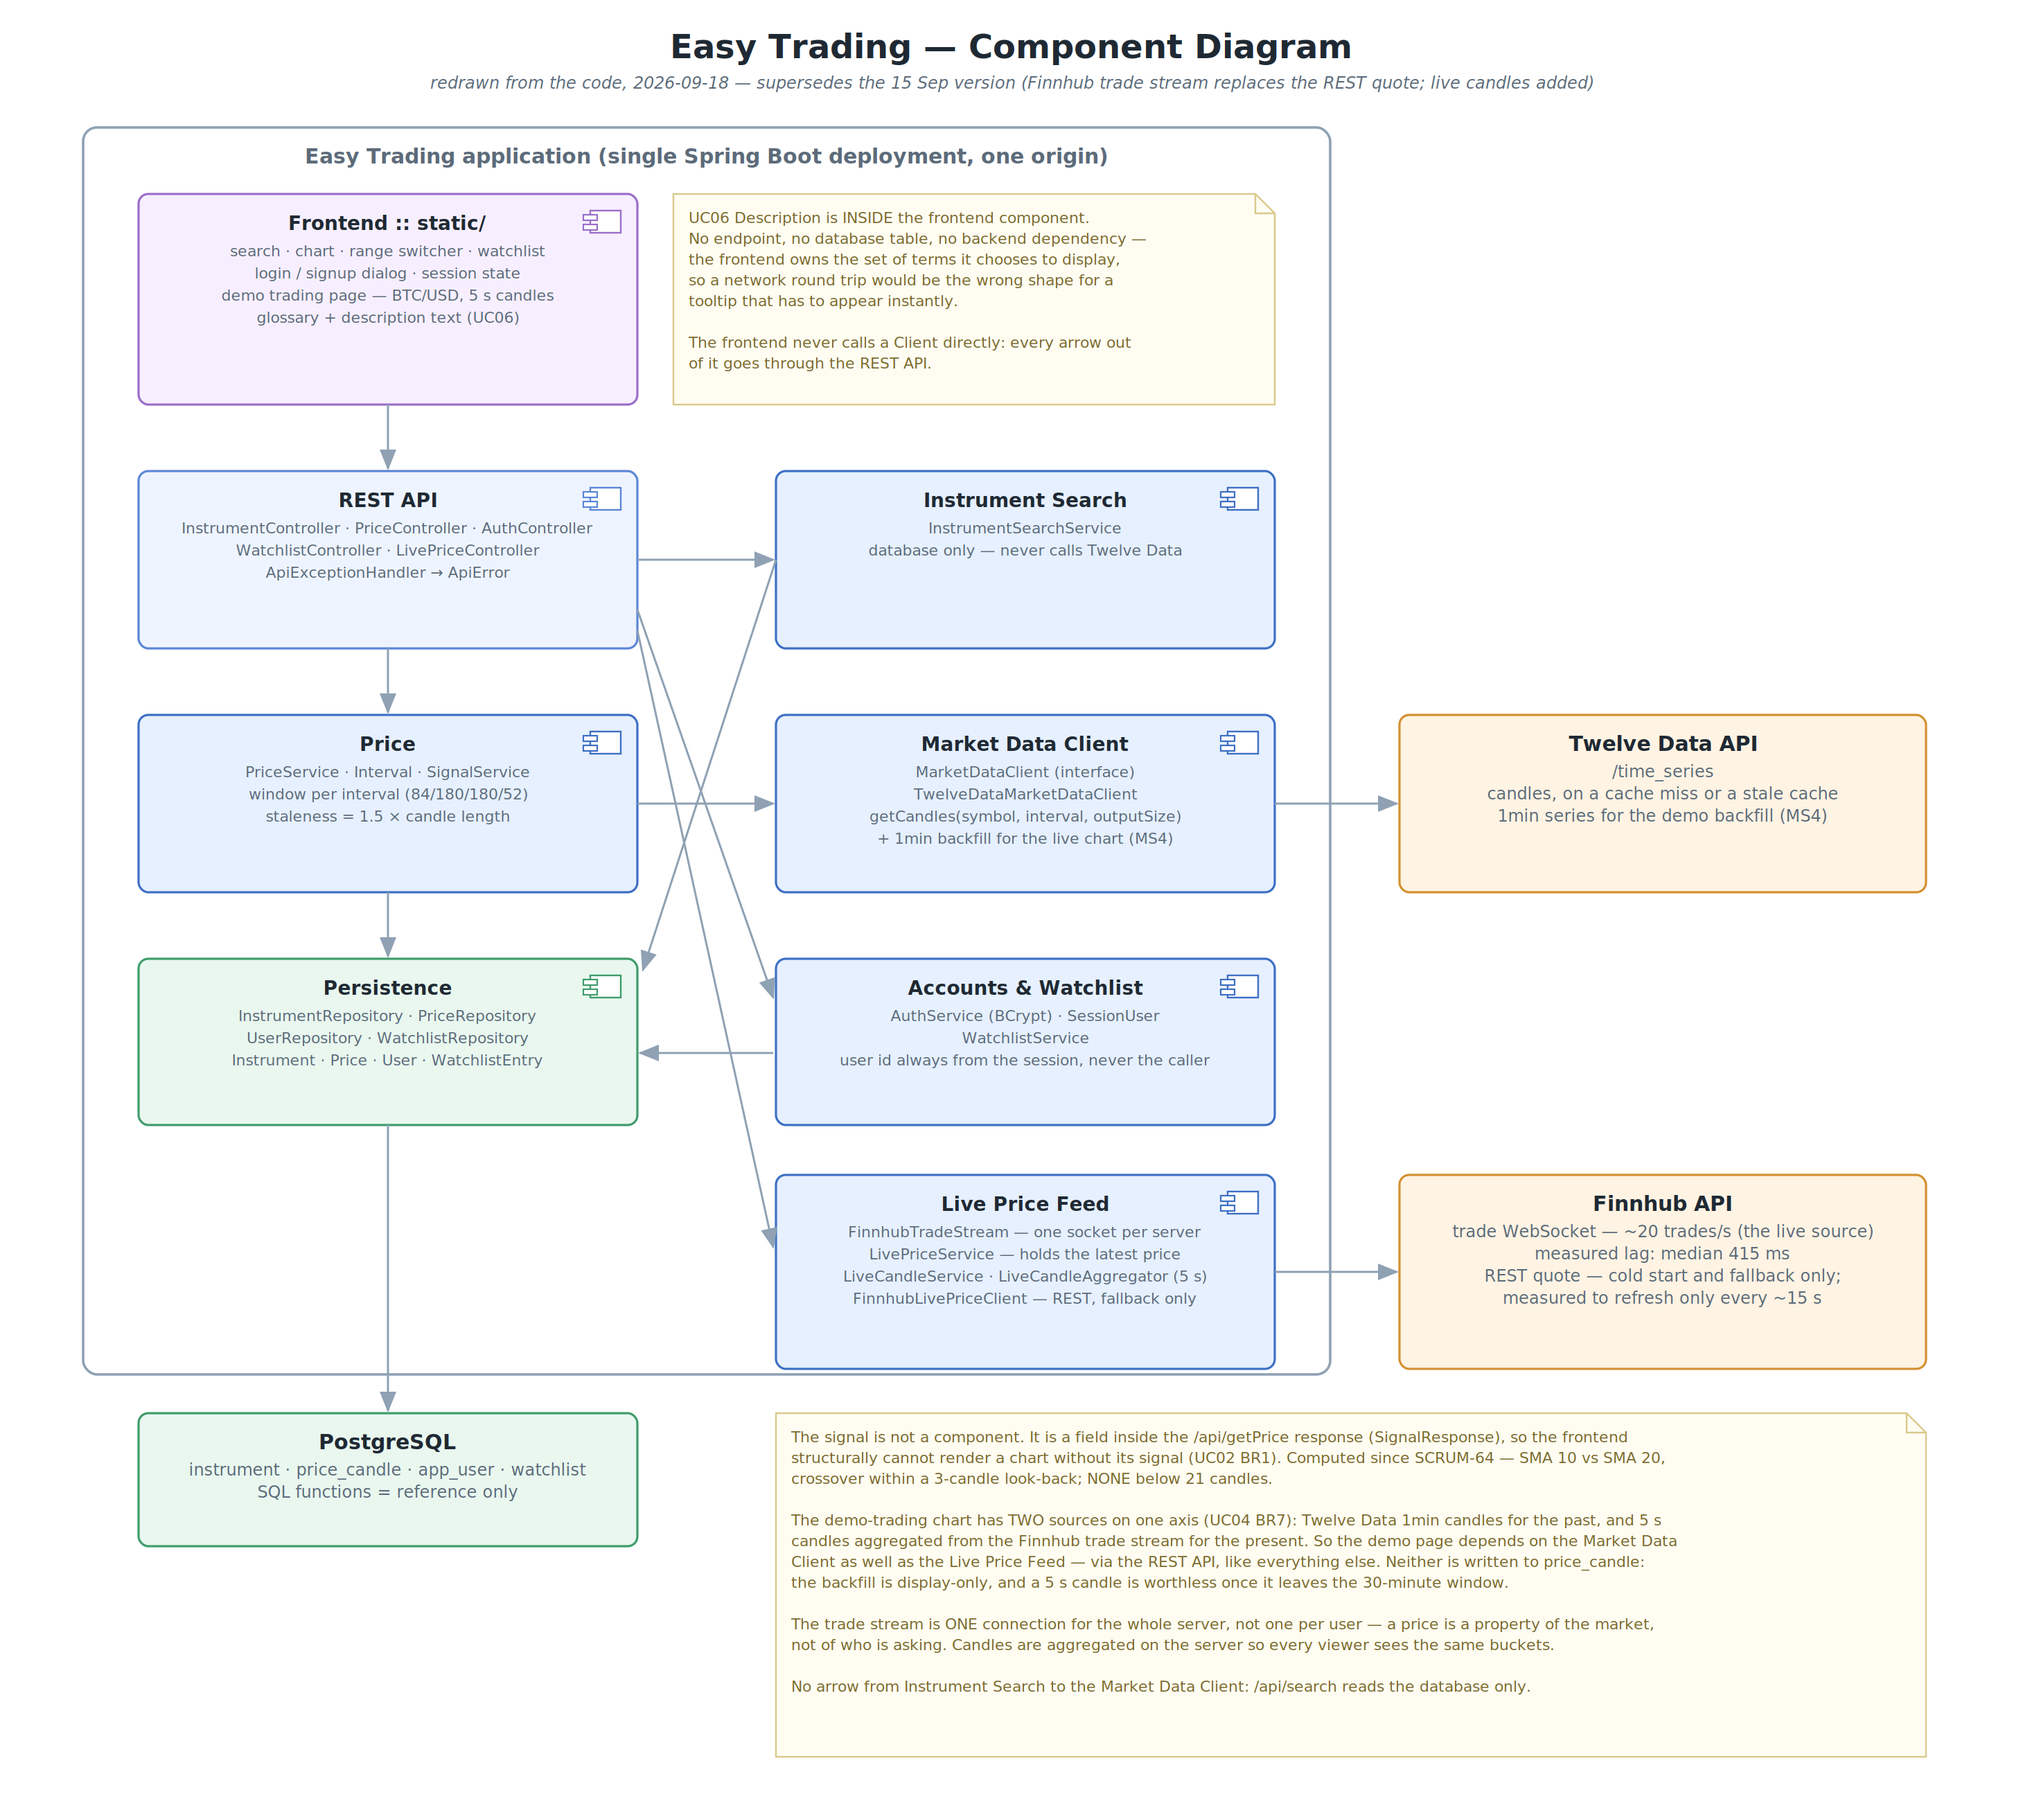
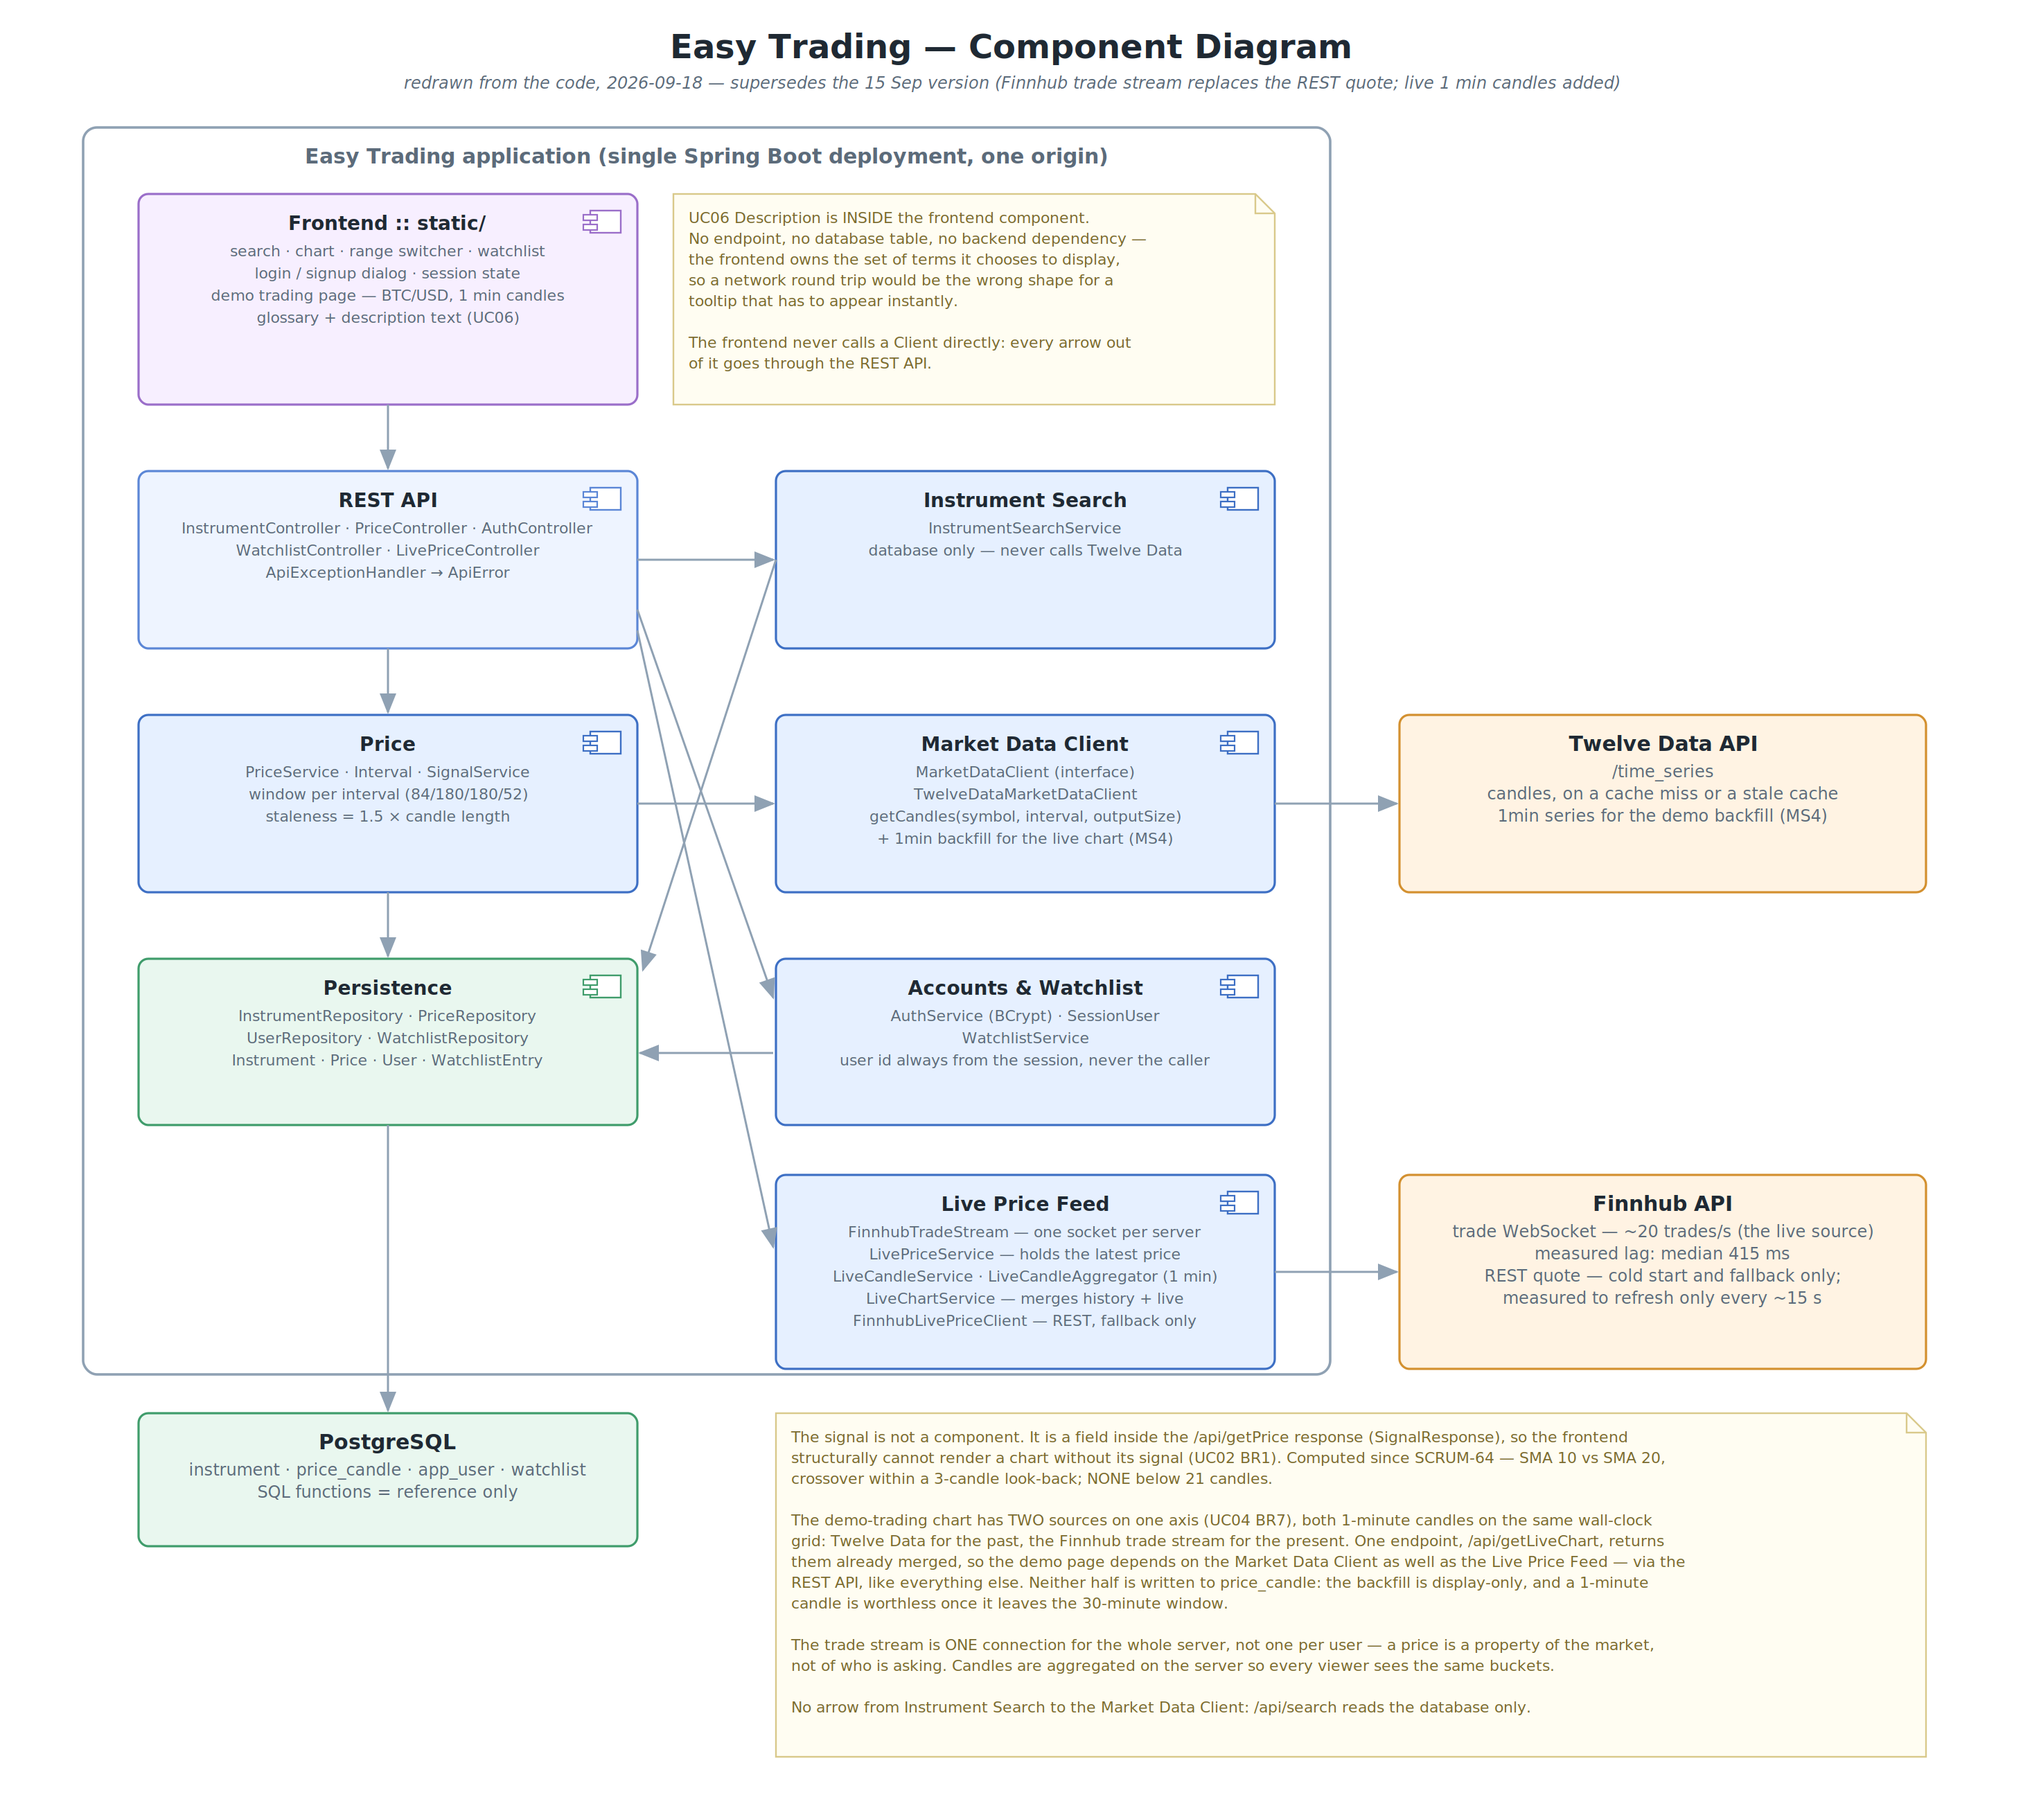
diagrams fixed

diff --git a/docs/diagrams/gen.py b/docs/diagrams/gen.py
@@ -1,5 +1,5 @@
 # -*- coding: utf-8 -*-
-"""Easy Trading — MS3/MS4 diagrams, redrawn from the code (2026-08-31)."""
+"""Easy Trading — MS3/MS4 diagrams, redrawn from the code (2026-08-31; last regenerated 2026-09-18 for SCRUM-76)."""
 import math, os
 
 OUT = os.path.dirname(os.path.abspath(__file__))
@@ -199,8 +199,10 @@ def layered():
          "Everything under /api/** is JSON. Never touches a Repository directly."),
         (500, 164, "Business logic layer  ·  *Service", LOGIC,
          ["InstrumentSearchService", "PriceService  ·  SignalService", "Interval (window + staleness)",
-          "AuthService  ·  SessionUser", "WatchlistService", "LivePriceService · LiveCandleService"],
-         "Owns the candle window, the staleness rule and the live 5 s candle series."),
+          "AuthService  ·  SessionUser", "WatchlistService",
+          "LivePriceService · LiveCandleService"],
+         "Owns the candle window, the staleness rule and the live 1 min candle series "
+         "(LiveChartService joins it to the Twelve Data backfill)."),
         (700, 164, "Persistence layer  ·  *Repository", PERSIST,
          ["InstrumentRepository", "PriceRepository", "UserRepository",
           "WatchlistRepository", "Instrument · Price entities", "User · WatchlistEntry entities"],
@@ -244,9 +246,9 @@ def layered():
 
     o.append(note(90, 1036, 800, 82, [
         "Layer rule, enforced by naming rather than by folder structure: a Controller always goes through a Service, never",
-        "straight to a Repository or a Client. Packages are organised by feature (instrument/, price/, marketdata/, liveprice/),",
-        "so one use case lives in one folder — the layer a class belongs to is carried by its *Controller / *Service /",
-        "*Repository / *Client suffix.",
+        "straight to a Repository or a Client. Packages are organised by feature — instrument/, price/, marketdata/, liveprice/,",
+        "user/, watchlist/ — so one use case lives in one folder, and the layer a class belongs to is carried by its",
+        "*Controller / *Service / *Repository / *Client suffix.",
     ]))
     o.append(footer(W, H, "Interfaces are named without an I-prefix: MarketDataClient, not IMarketDataClient. There is no ITradingService."))
     o.append("</svg>")
@@ -258,7 +260,7 @@ def component():
     W, H = 1460, 1310
     o = [head(W, H), txt(W / 2, 42, "Easy Trading — Component Diagram", 24, INK, weight="700")]
     o.append(txt(W / 2, 64, "redrawn from the code, 2026-09-18 — supersedes the 15 Sep version "
-                            "(Finnhub trade stream replaces the REST quote; live candles added)", 12, MUTE, style="italic"))
+                            "(Finnhub trade stream replaces the REST quote; live 1 min candles added)", 12, MUTE, style="italic"))
 
     def comp(x, y, w, h, name, lines, pal, dashed=False):
         s = box(x, y, w, h, name, lines, pal=pal, dashed=dashed, tsize=14, lsize=11)
@@ -273,7 +275,7 @@ def component():
     o.append(comp(100, 140, 360, 152, "Frontend  ::  static/", [
         "search · chart · range switcher · watchlist",
         "login / signup dialog · session state",
-        "demo trading page — BTC/USD, 5 s candles",
+        "demo trading page — BTC/USD, 1 min candles",
         "glossary + description text (UC06)"], UI))
     o.append(note(486, 140, 434, 152, [
         "UC06 Description is INSIDE the frontend component.",
@@ -316,7 +318,8 @@ def component():
     o.append(comp(560, 848, 360, 140, "Live Price Feed", [
         "FinnhubTradeStream — one socket per server",
         "LivePriceService — holds the latest price",
-        "LiveCandleService · LiveCandleAggregator (5 s)",
+        "LiveCandleService · LiveCandleAggregator (1 min)",
+        "LiveChartService — merges history + live",
         "FinnhubLivePriceClient — REST, fallback only"], LOGIC))
 
     o.append(edge(280, 292, 280, 338))          # frontend -> REST
@@ -350,10 +353,11 @@ def component():
         "structurally cannot render a chart without its signal (UC02 BR1). Computed since SCRUM-64 — SMA 10 vs SMA 20,",
         "crossover within a 3-candle look-back; NONE below 21 candles.",
         "",
-        "The demo-trading chart has TWO sources on one axis (UC04 BR7): Twelve Data 1min candles for the past, and 5 s",
-        "candles aggregated from the Finnhub trade stream for the present. So the demo page depends on the Market Data",
-        "Client as well as the Live Price Feed — via the REST API, like everything else. Neither is written to price_candle:",
-        "the backfill is display-only, and a 5 s candle is worthless once it leaves the 30-minute window.",
+        "The demo-trading chart has TWO sources on one axis (UC04 BR7), both 1-minute candles on the same wall-clock",
+        "grid: Twelve Data for the past, the Finnhub trade stream for the present. One endpoint, /api/getLiveChart, returns",
+        "them already merged, so the demo page depends on the Market Data Client as well as the Live Price Feed — via the",
+        "REST API, like everything else. Neither half is written to price_candle: the backfill is display-only, and a 1-minute",
+        "candle is worthless once it leaves the 30-minute window.",
         "",
         "The trade stream is ONE connection for the whole server, not one per user — a price is a property of the market,",
         "not of who is asking. Candles are aggregated on the server so every viewer sees the same buckets.",
